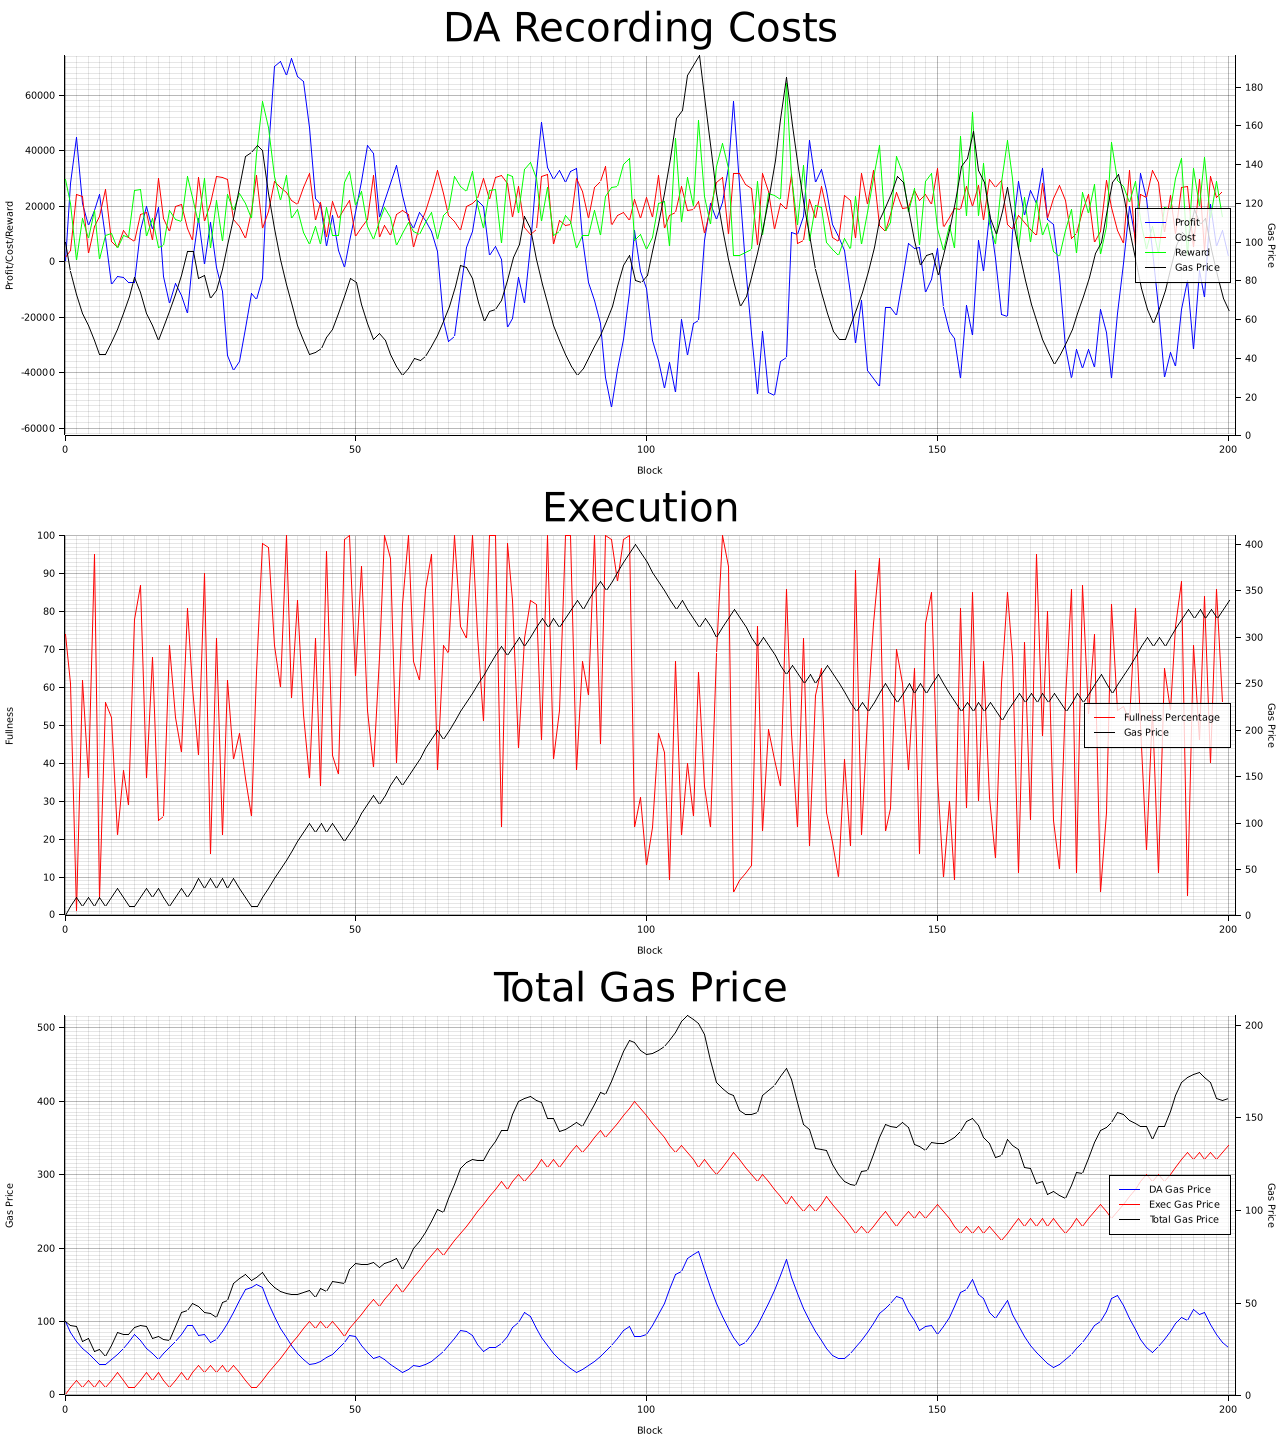
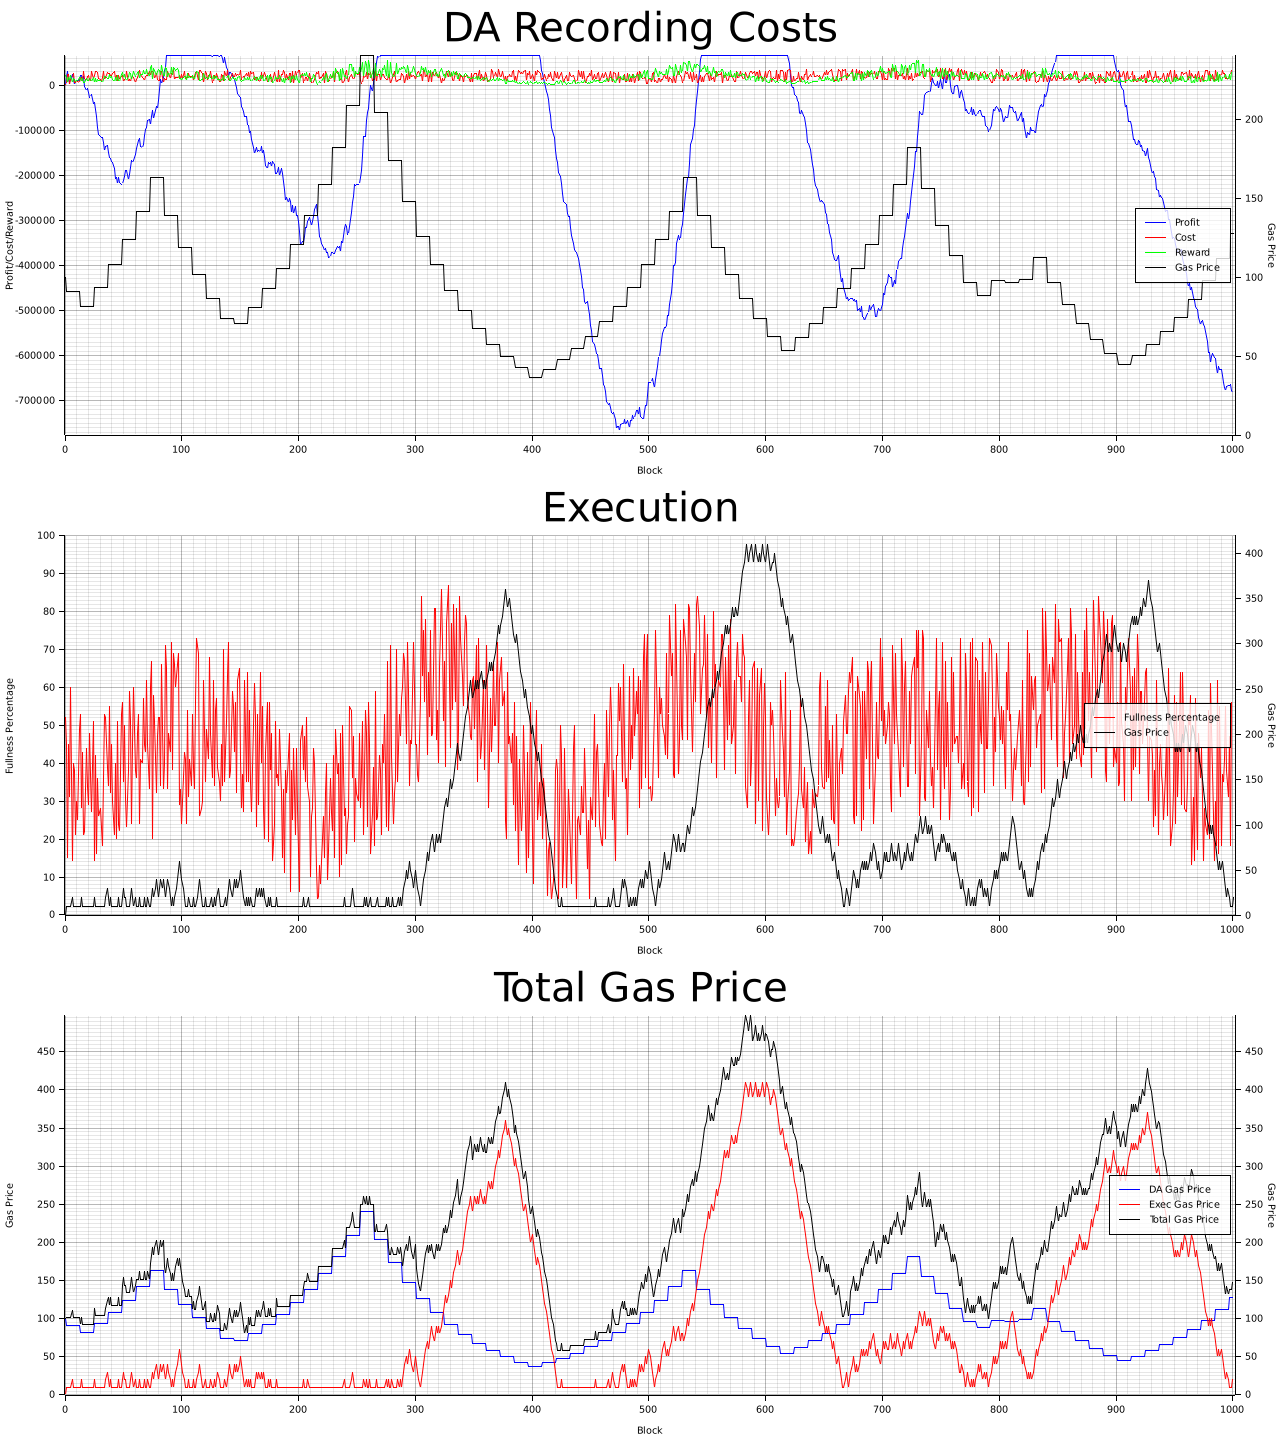
Make da price more stepwise to account for fewer blocks on da layer

diff --git a/crates/gas-price-algorithm/src/main.rs b/crates/gas-price-algorithm/src/main.rs
@@ -42,7 +42,7 @@ fn noisy_fullness<T: TryInto<f64>>(input: T) -> f64
 where
     <T as TryInto<f64>>::Error: core::fmt::Debug,
 {
-    const COMPONENTS: &[f64] = &[30.0, 40.0, 700.0, 340.0, 400.0];
+    const COMPONENTS: &[f64] = &[-30.0, 40.0, 700.0, -340.0, 400.0];
     let input = input.try_into().unwrap();
     gen_noisy_signal(input, COMPONENTS)
 }
@@ -51,12 +51,13 @@ fn arb_fullness_signal(size: u32, capacity: u64) -> Vec<(u64, u64)> {
     let mut rng = StdRng::seed_from_u64(888);
     (0u32..size)
         .map(noisy_fullness)
-        .map(|x| (0.5 * x + 0.5) * capacity as f64)
+        .map(|x| (0.5 * x + 0.4) * capacity as f64)
         .map(|x| {
-            let val = rng.gen_range(-0.5 * capacity as f64..0.5 * capacity as f64);
+            let val = rng.gen_range(-0.25 * capacity as f64..0.25 * capacity as f64);
             x + val
         })
         .map(|x| f64::min(x, capacity as f64))
+        .map(|x| f64::max(x, 5.0))
         .map(|x| (x as u64, capacity))
         .collect()
 }
@@ -65,7 +66,7 @@ fn main() {
     let min_da_price = 10;
     let min_exec_price = 10;
     let p_value_factor = 4_000;
-    let d_value_factor = 100;
+    let d_value_factor = 200;
     let moving_average_window = 10;
     let max_change_percent = 15;
     let exec_change_amount = 10;
@@ -80,7 +81,7 @@ fn main() {
     );
 
     let capacity = 400;
-    let simulation_size = 200;
+    let simulation_size = 1_000;
 
     // Run simulation
     let da_recording_cost = arb_cost_signal(simulation_size);
@@ -95,6 +96,9 @@ fn main() {
     let mut total_da_cost = 0;
     let mut total_da_reward = 0;
 
+    let da_record_frequency = 12;
+    let mut da_record_counter = 0;
+
     for (da_cost, (used, capacity)) in da_recording_cost.iter().zip(exec_fullness.iter())
     {
         total_da_cost += da_cost;
@@ -103,14 +107,17 @@ fn main() {
         total_da_reward += da_reward;
         let total_profit = total_da_reward as i32 - total_da_cost as i32;
         total_profits.push(total_profit);
-        (da_gas_price, exec_gas_price) = algo.calculate_gas_price(
-            da_gas_price,
-            exec_gas_price,
-            total_da_reward,
-            total_da_cost,
-            *used,
-            *capacity,
-        );
+        exec_gas_price = algo.calculate_exec_gas_price(exec_gas_price, *used, *capacity);
+        // Only update the da gas price every da_record_frequency blocks
+        if da_record_counter % da_record_frequency == 0 {
+            da_gas_price = algo.calculate_da_gas_price(
+                da_gas_price as u64,
+                total_da_reward,
+                total_da_cost,
+            );
+        }
+        da_record_counter += 1;
+
         da_gas_prices.push(da_gas_price as i32);
         exec_gas_prices.push(exec_gas_price as i32);
         total_gas_prices.push((da_gas_price + exec_gas_price) as i32);
@@ -133,9 +140,7 @@ fn main() {
         &da_rewards,
         &da_gas_prices,
     );
-
     draw_exec_chart(&middle, &total_profits, &exec_fullness, &exec_gas_prices);
-
     draw_total_gas_price(&bottom, &da_gas_prices, &exec_gas_prices, &total_gas_prices);
 
     root.present().unwrap();
@@ -161,22 +166,12 @@ fn draw_total_gas_price<DB: DrawingBackend>(
         .y_label_area_size(60)
         .right_y_label_area_size(40)
         .build_cartesian_2d(0..total_gas_prices.len(), min..max)
-        .unwrap()
-        .set_secondary_coord(
-            0..da_gas_prices.len(),
-            0..*da_gas_prices.iter().max().unwrap() + 9,
-        );
+        .unwrap();
 
     total_gas_price_chart
         .configure_mesh()
         .y_desc("Gas Price")
         .x_desc("Block")
-        .draw()
-        .unwrap();
-
-    total_gas_price_chart
-        .configure_secondary_axes()
-        .y_desc("Gas Price")
         .draw()
         .unwrap();
 
@@ -242,7 +237,7 @@ fn draw_exec_chart<DB: DrawingBackend>(
 
     exec_chart
         .configure_mesh()
-        .y_desc("Fullness")
+        .y_desc("Fullness Percentage")
         .x_desc("Block")
         .draw()
         .unwrap();

diff --git a/crates/gas-price-algorithm/src/lib.rs b/crates/gas-price-algorithm/src/lib.rs
@@ -90,25 +90,6 @@ impl AlgorithmV1 {
         max(new, self.min_exec_price)
     }
 
-    pub fn calculate_gas_price(
-        &self,
-        old_da_gas_price: u64,
-        old_exec_gas_price: u64,
-        total_da_production_reward: u64,
-        total_da_recording_cost: u64,
-        used: u64,
-        capacity: u64,
-    ) -> (u64, u64) {
-        let new_da_gas_price = self.calculate_da_gas_price(
-            old_da_gas_price,
-            total_da_production_reward,
-            total_da_recording_cost,
-        );
-        let new_exec_gas_price =
-            self.calculate_exec_gas_price(old_exec_gas_price, used, capacity);
-        (new_da_gas_price, new_exec_gas_price)
-    }
-
     fn calculate_new_moving_average(&self, new_profit: i32) {
         let old = *self.moving_average_profit.borrow();
         *self.moving_average_profit.borrow_mut() = (old

diff --git a/crates/fuel-core/src/service/adapters/fuel_gas_price_provider/tests/producer_gas_price_tests.rs b/crates/fuel-core/src/service/adapters/fuel_gas_price_provider/tests/producer_gas_price_tests.rs
@@ -23,7 +23,7 @@ fn gas_price__can_get_a_historical_gas_price() {
 }
 
 #[test]
-fn gas_price__if_gas_price_too_high_return_error() {
+fn gas_price__if_requested_block_height_too_high_return_error() {
     // given
     let latest_height = 432;
     let too_new_height = (latest_height + 2).into();
